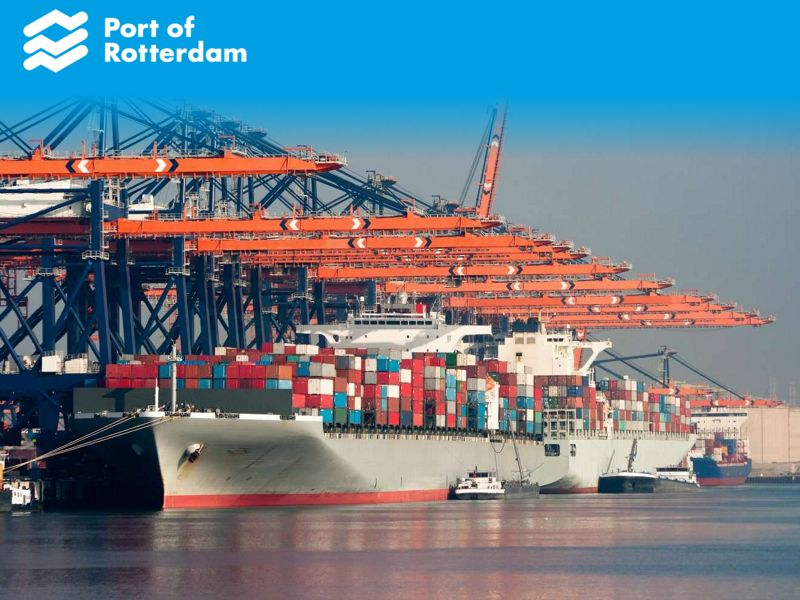
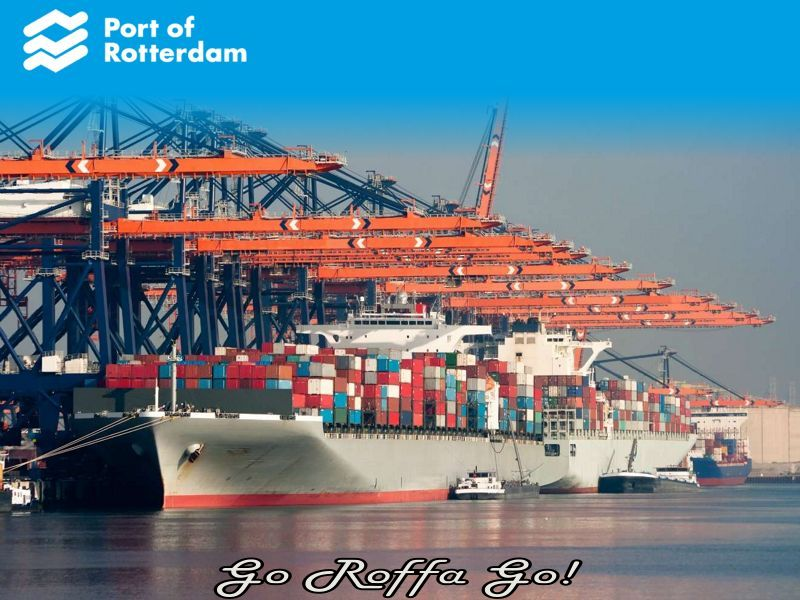
Added Go Roffa Go! in the main menu

Changed region(s): [[0.25, 0.93, 0.75, 1.0]]

diff --git a/GoRoffaGo/GoRoffaGo.java b/GoRoffaGo/GoRoffaGo.java
@@ -22,7 +22,7 @@ public class GoRoffaGo extends World
         "In the city centre there are still some old vessels. \n Compare them to the new ones and see the difference \n in scale between then and now...", 
         "Unloading a containership is a game of tactics. Pick the \n right containers from the ship but keep it in balance!", 
         "The port is the main reason for the development of Rotterdam", 
-        "Efficient and automated trucks relocate containers on the dock. \n Program them yourself with movements and prevent \n crashing then into obstacles and eachother.", 
+        "Automated trucks relocate containers on the dock. \n Program them yourself with movements and prevent \n crashing then into obstacles and eachother.", 
         "The port never sleeps. Seven days a week, \n 24 hours a day ships come and go.", 
         "To keep the port save and secure you have to keep the criminals \n away from the cargo. Catch them as fast as you can!", 
         "This is how the port grows. Even new land is build to make it \n grow into the sea."  

diff --git a/GoRoffaGo/G1Port.java b/GoRoffaGo/G1Port.java
@@ -195,6 +195,10 @@ public class G1Port extends Game
                 gameOver();
             }
         }
+        else
+        {
+            super.act();
+        }
     }
 
     /**
@@ -205,7 +209,7 @@ public class G1Port extends Game
     protected void checkKeys()
     {
         // The s-key selects the next boat for controls.
-        if ((lastKey == "" || !Greenfoot.isKeyDown(lastKey)) && Greenfoot.isKeyDown("s"))
+        if (running && (lastKey == "" || !Greenfoot.isKeyDown(lastKey)) && Greenfoot.isKeyDown("s"))
         {
             lastKey = "s";
             selectNextBoat();

diff --git a/GoRoffaGo/MnuGame.java b/GoRoffaGo/MnuGame.java
@@ -30,7 +30,7 @@ public class MnuGame extends Actor
     public void show()
     {
         showing = true;
-        active = false;
+        active = mouseOver;
     }
     
     /**
